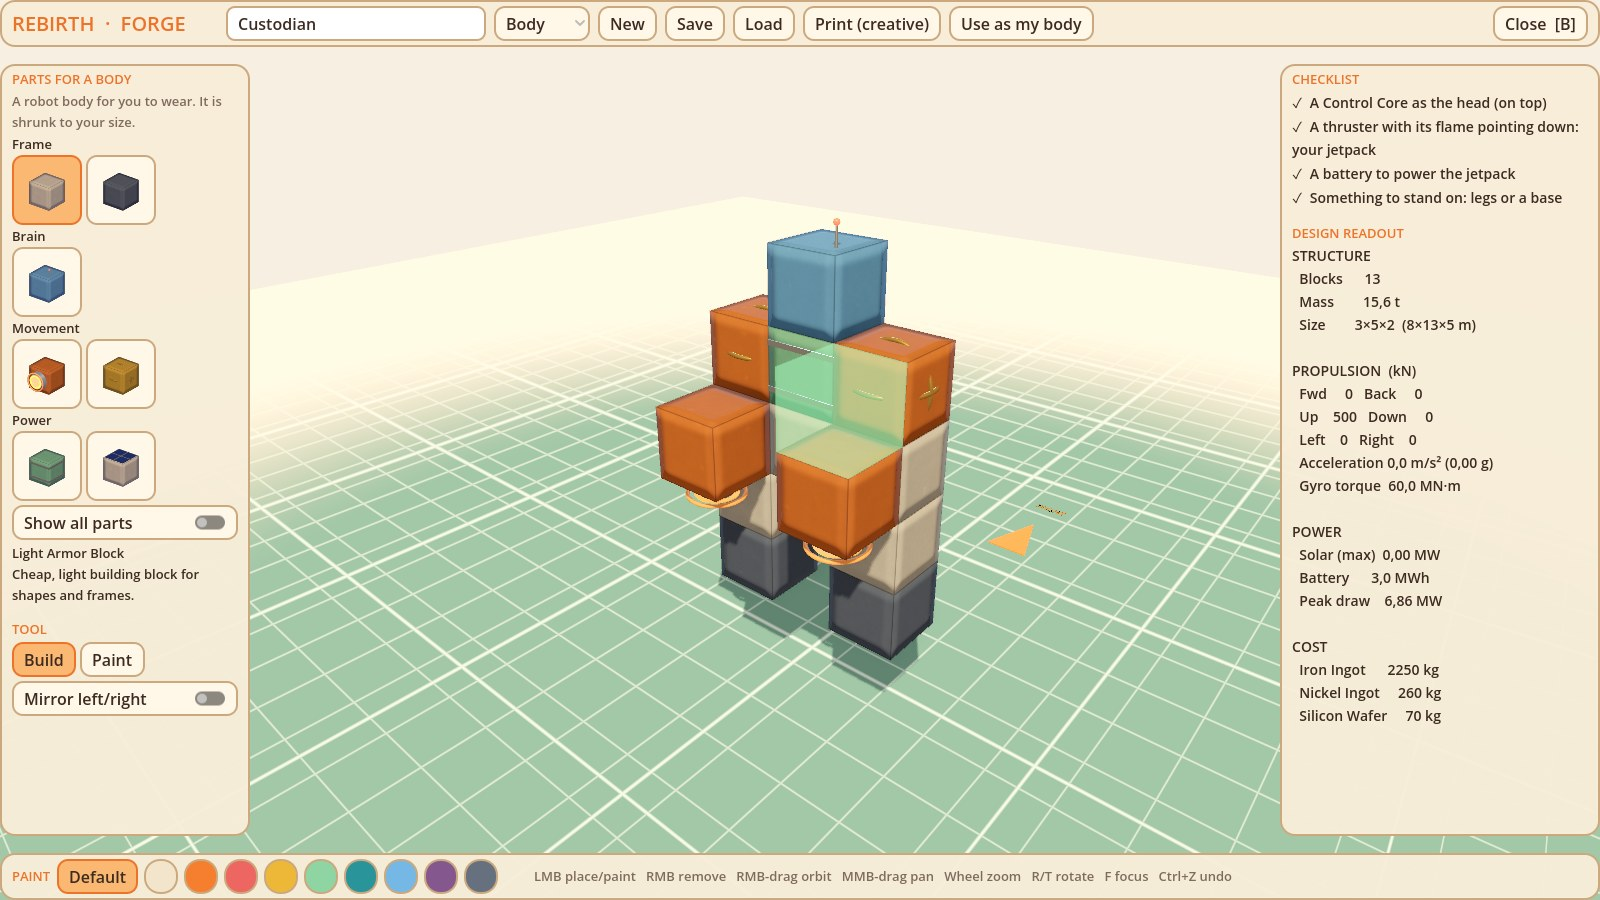
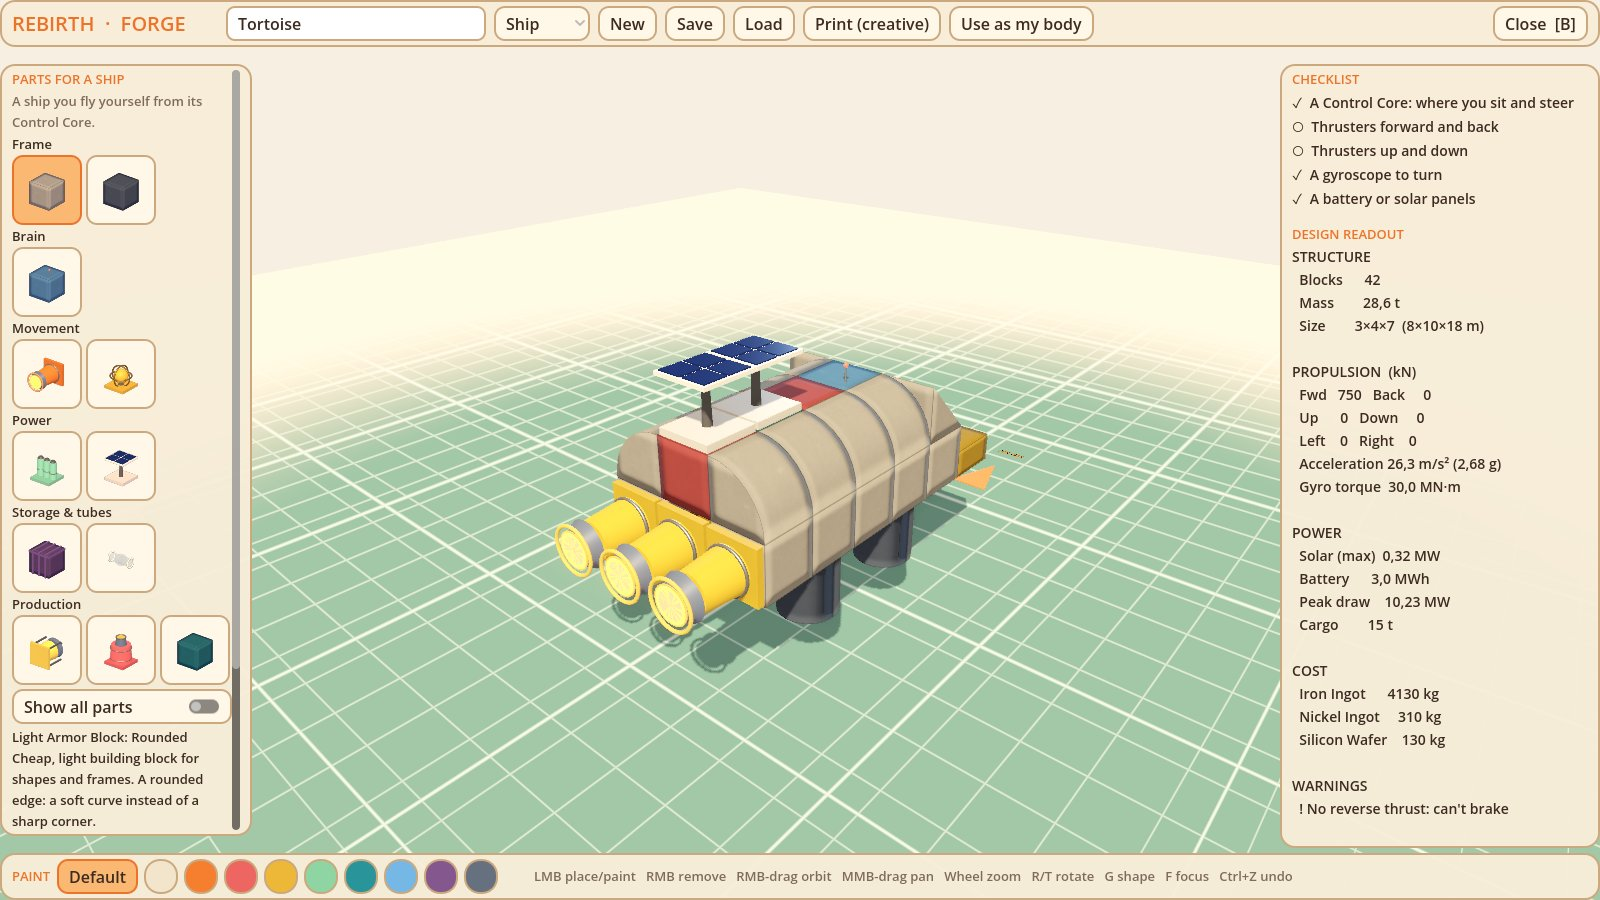
Fresh screenshots: shaped-block Forge, power network, machine silhouettes, Nexus

diff --git a/README.md b/README.md
@@ -14,8 +14,9 @@ friendly, and you deal with them through puzzles and conversation.
 
 | | |
 |---|---|
-| ![Third-person building](docs/screenshots/hud.jpg) | ![A healed planet with seas and villages](docs/screenshots/planet.jpg) |
-| ![The Forge](docs/screenshots/forge.jpg) | ![Production statistics](docs/screenshots/production.jpg) |
+| ![A Solar Park cabled to Home](docs/screenshots/hud.jpg) | ![A healed planet with seas and villages](docs/screenshots/planet.jpg) |
+| ![The Forge: a ship built from shaped blocks](docs/screenshots/forge.jpg) | ![Production statistics](docs/screenshots/production.jpg) |
+| ![A Stone Plant: burners and a power pylon](docs/screenshots/power.jpg) | ![Every machine has its own silhouette](docs/screenshots/machines.jpg) |
 
 ![The Breach Lance: everyone lends their light](docs/screenshots/spirit_bomb.jpg)
 
@@ -25,9 +26,12 @@ it covers every system, block, design and upgrade, and has the roadmap.
 ## What you can do
 
 - **Build** with rounded toy blocks in third person, or design ships, stations, bots and your own robot body
-  in **the Forge** (parts by category, a checklist per design type, mirror mode, paint).
+  in **the Forge** (parts by category, a checklist per design type, mirror mode, paint). Armor comes in slopes,
+  corners, halves, rounded edges and pillars.
 - **Automate**: drills, refineries and storage that touch form a network. Ore and ingots ride through glass
   tubes as little coloured pods.
+- **Power** your stations from one place: cable them together with Power Pylons and feed them from a Solar
+  Park, Stone Burners, Wind Turbines or a Geothermal Tap.
 - **Run everything from the Nexus**, a strategic overview of your star cluster:
   - print worker bots;
   - pick a planet and a design, and bots fly out and build it (costs more than building by hand);
